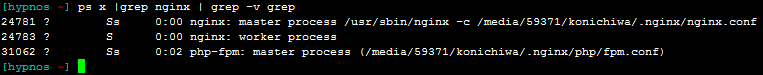
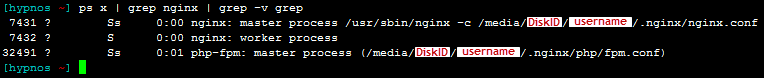
nginx

diff --git a/Feral Wiki/HTTP/Updating Apache to nginx/readme.md b/Feral Wiki/HTTP/Updating Apache to nginx/readme.md
@@ -64,6 +64,9 @@ killall -9 nginx php5-fpm -u $(whoami)
 
 and waiting 5 minutes for it to be restarted.
 
+~~~
+ps x | grep nginx | grep -v grep
+~~~
 
-
+![](https://raw.github.com/feralhosting/feralfilehosting/master/Feral%20Wiki/HTTP/Updating%20Apache%20to%20nginx/started.png)
 
